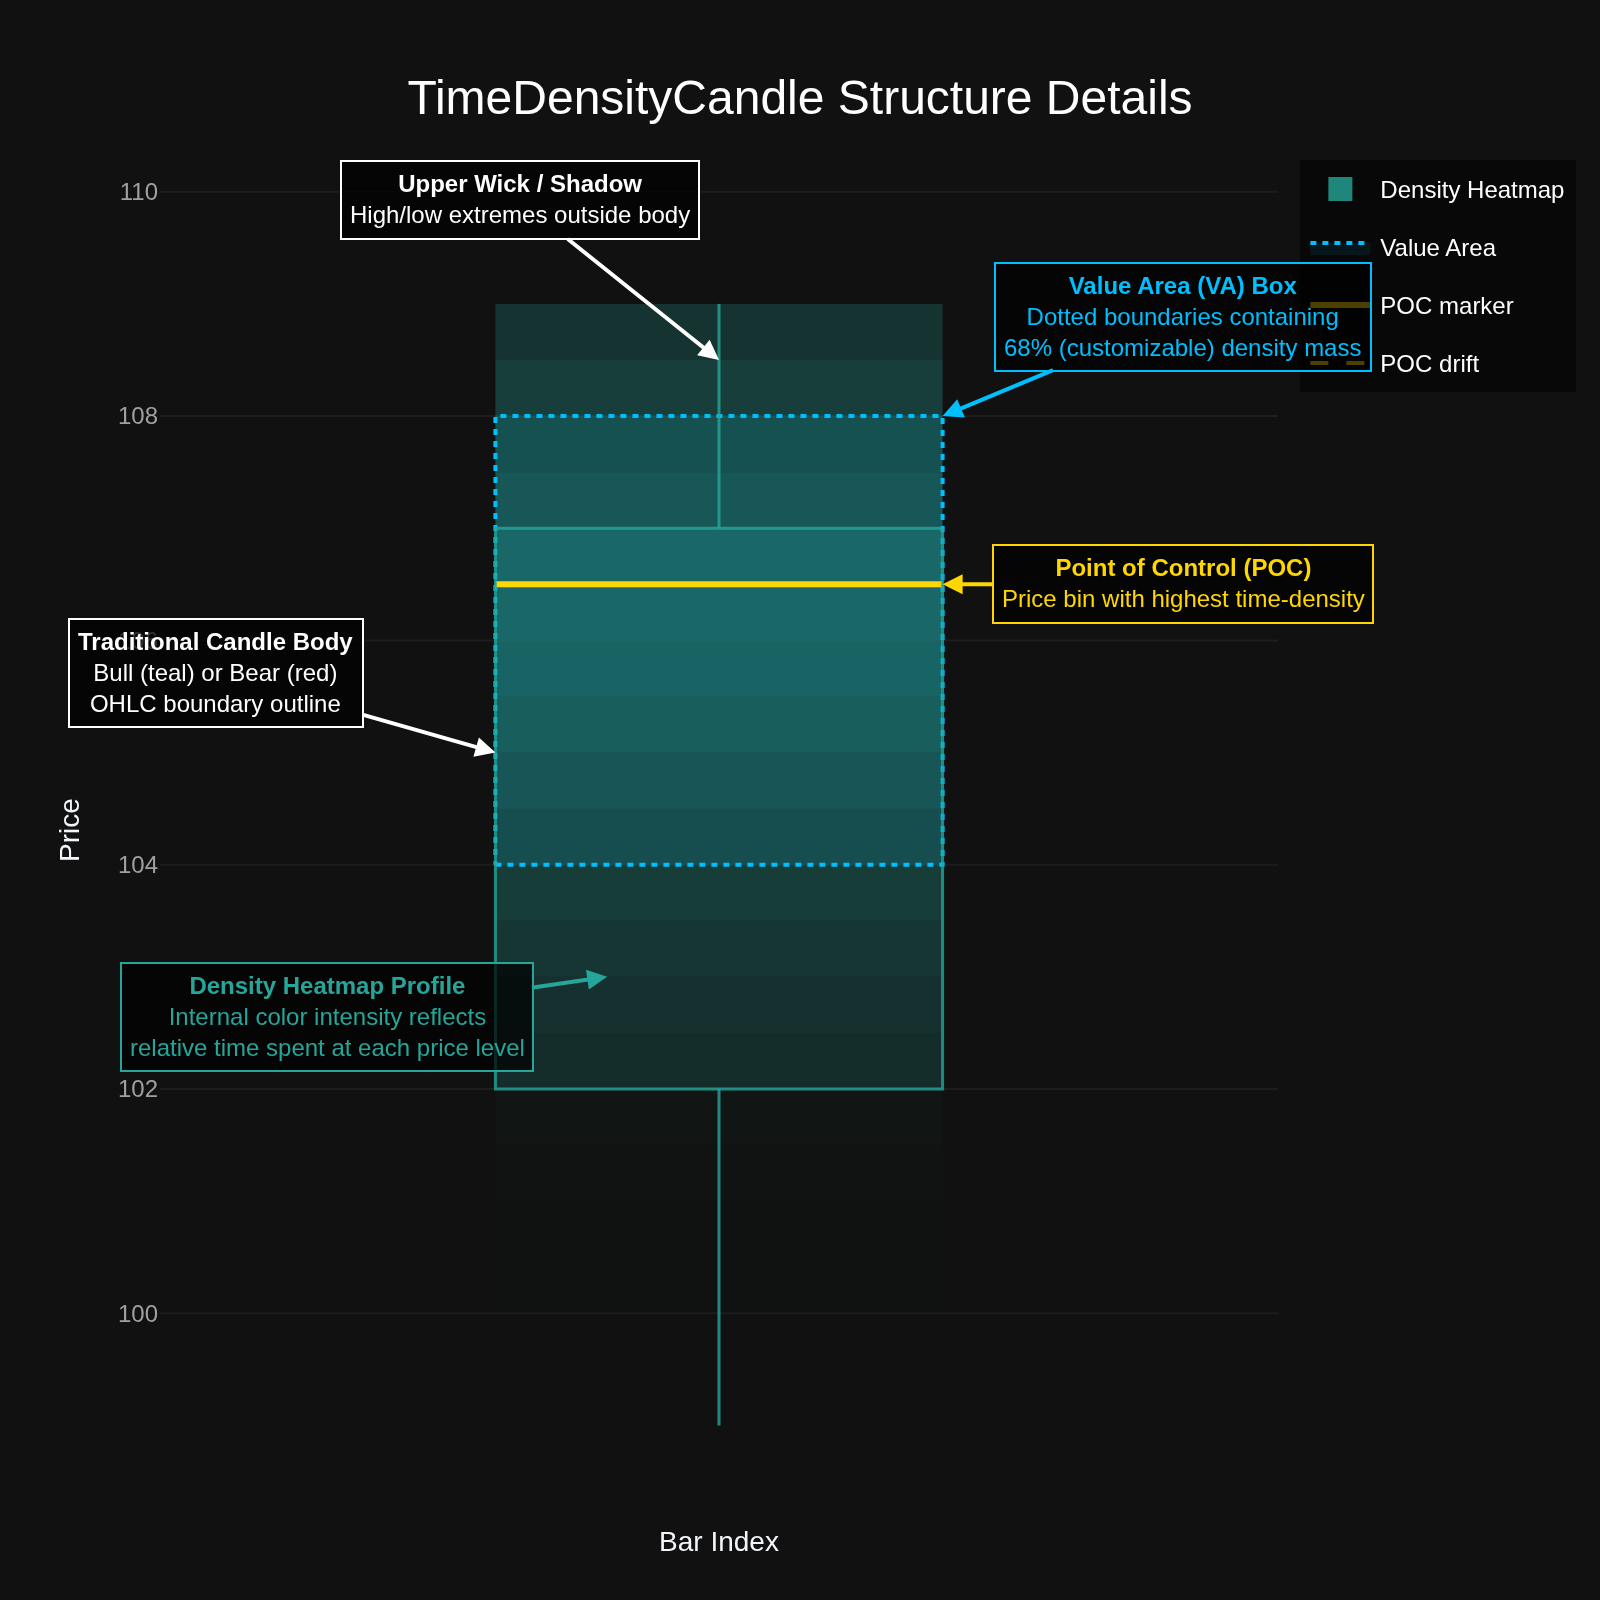
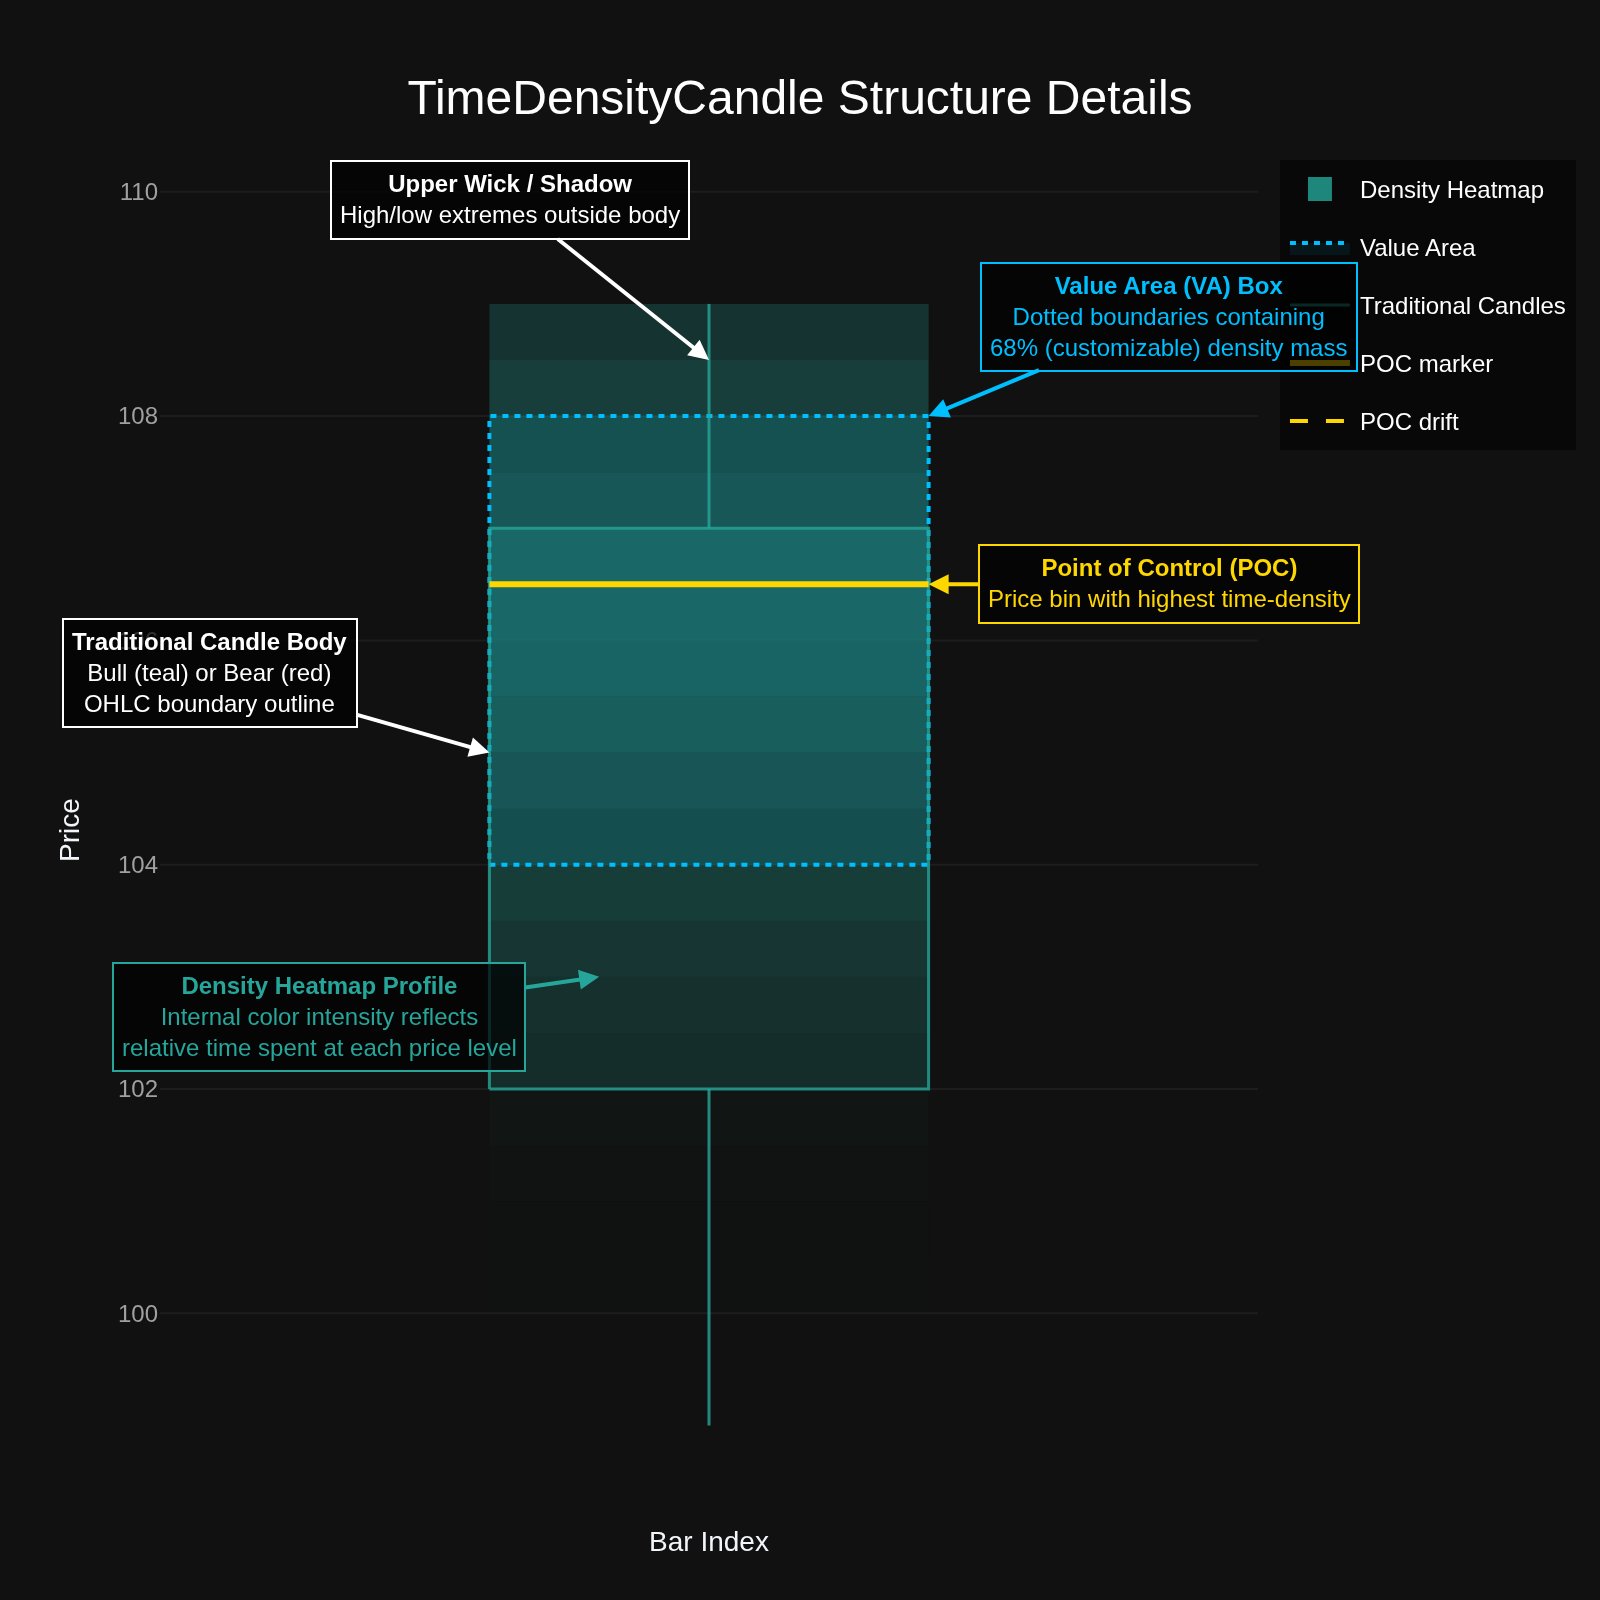
feat(rendering): add toggle to hide traditional candle bodies and wicks
- Introduce show_candles configuration to allow disabling traditional candle rendering.
- Refactor rendering logic to use Plotly Scatter traces instead of individual shapes for better performance and control.
- Update documentation and default configuration to reflect the new rendering option.

diff --git a/src/tdc/render.py b/src/tdc/render.py
@@ -20,6 +20,14 @@ def render_heatmap_candle(
     heatmap_base: list[float],
     heatmap_width: list[float],
     heatmap_colors: list[str],
+    bull_fill_x: list[float | None],
+    bull_fill_y: list[float | None],
+    bear_fill_x: list[float | None],
+    bear_fill_y: list[float | None],
+    bull_outline_x: list[float | None],
+    bull_outline_y: list[float | None],
+    bear_outline_x: list[float | None],
+    bear_outline_y: list[float | None],
 ) -> None:
     """
     Render a single TimeDensityCandle on the provided Plotly figure.
@@ -33,43 +41,74 @@ def render_heatmap_candle(
     body_min = min(open_p, close_p)
     body_max = max(open_p, close_p)
 
-    # 1. Traditional candle wicks/tails (only on the ends, not inside the body)
-    # We draw these with layer="above" so they render on top of the heatmap trace
-    if low_p < body_min:
-        fig.add_shape(
-            type="line",
-            x0=x_position,
-            y0=low_p,
-            x1=x_position,
-            y1=body_min,
-            line={"color": color_template.format(alpha=0.8), "width": 1.5},
-            layer="above",
-        )
-    if body_max < high_p:
-        fig.add_shape(
-            type="line",
-            x0=x_position,
-            y0=body_max,
-            x1=x_position,
-            y1=high_p,
-            line={"color": color_template.format(alpha=0.8), "width": 1.5},
-            layer="above",
-        )
+    # 1. Traditional candle wicks/tails and body outlines/fills (collected as coordinates)
+    if config.show_candles:
+        if close_p >= open_p:
+            # Bull candle
+            if low_p < body_min:
+                bull_outline_x.extend([x_position, x_position, None])
+                bull_outline_y.extend([low_p, body_min, None])
+            if body_max < high_p:
+                bull_outline_x.extend([x_position, x_position, None])
+                bull_outline_y.extend([body_max, high_p, None])
+            
+            # outline rectangle
+            bull_outline_x.extend([
+                x_position - half_width, x_position + half_width,
+                x_position + half_width, x_position - half_width,
+                x_position - half_width, None
+            ])
+            bull_outline_y.extend([
+                body_min, body_min,
+                body_max, body_max,
+                body_min, None
+            ])
 
-    # 2. Draw the base candle body fill (no border)
-    # We draw this with layer="below" so it renders underneath the heatmap trace
-    fig.add_shape(
-        type="rect",
-        x0=x_position - half_width,
-        y0=body_min,
-        x1=x_position + half_width,
-        y1=body_max,
-        fillcolor=color_template.format(alpha=0.15),
-        line={"width": 0},
-        layer="below",
-    )
+            # fill rectangle
+            bull_fill_x.extend([
+                x_position - half_width, x_position + half_width,
+                x_position + half_width, x_position - half_width,
+                x_position - half_width, None
+            ])
+            bull_fill_y.extend([
+                body_min, body_min,
+                body_max, body_max,
+                body_min, None
+            ])
+        else:
+            # Bear candle
+            if low_p < body_min:
+                bear_outline_x.extend([x_position, x_position, None])
+                bear_outline_y.extend([low_p, body_min, None])
+            if body_max < high_p:
+                bear_outline_x.extend([x_position, x_position, None])
+                bear_outline_y.extend([body_max, high_p, None])
+            
+            # outline rectangle
+            bear_outline_x.extend([
+                x_position - half_width, x_position + half_width,
+                x_position + half_width, x_position - half_width,
+                x_position - half_width, None
+            ])
+            bear_outline_y.extend([
+                body_min, body_min,
+                body_max, body_max,
+                body_min, None
+            ])
 
-    # 3. Collect the density profile (heatmap) blocks (split into lower tail, body, and upper tail)
+            # fill rectangle
+            bear_fill_x.extend([
+                x_position - half_width, x_position + half_width,
+                x_position + half_width, x_position - half_width,
+                x_position - half_width, None
+            ])
+            bear_fill_y.extend([
+                body_min, body_min,
+                body_max, body_max,
+                body_min, None
+            ])
+
+    # 2. Collect the density profile (heatmap) blocks (split into lower tail, body, and upper tail)
     for j, density_value in enumerate(density):
         bin_low = bins[j]
         bin_high = bins[j + 1]
@@ -108,18 +147,6 @@ def render_heatmap_candle(
             heatmap_base.append(float(draw_low))
             heatmap_width.append(float(w))
             heatmap_colors.append(color_template.format(alpha=alpha_j))
-
-    # 4. Draw the traditional candle body border outline (no fill) on top of density blocks
-    # We draw this with layer="above" so it renders on top of the heatmap trace
-    fig.add_shape(
-        type="rect",
-        x0=x_position - half_width,
-        y0=body_min,
-        x1=x_position + half_width,
-        y1=body_max,
-        line={"color": color_template.format(alpha=0.8), "width": 1.5},
-        layer="above",
-    )
 
 
 def _legend_position(position: str) -> dict[str, float | str]:
@@ -316,6 +343,15 @@ def build_heatmap_chart(
         heatmap_width: list[float] = []
         heatmap_colors: list[str] = []
 
+        bull_fill_x: list[float | None] = []
+        bull_fill_y: list[float | None] = []
+        bear_fill_x: list[float | None] = []
+        bear_fill_y: list[float | None] = []
+        bull_outline_x: list[float | None] = []
+        bull_outline_y: list[float | None] = []
+        bear_outline_x: list[float | None] = []
+        bear_outline_y: list[float | None] = []
+
         for i, row in feature_df.reset_index(drop=True).iterrows():
             ohlc = {
                 "open": float(row["open"]),
@@ -339,6 +375,14 @@ def build_heatmap_chart(
                 heatmap_base,
                 heatmap_width,
                 heatmap_colors,
+                bull_fill_x,
+                bull_fill_y,
+                bear_fill_x,
+                bear_fill_y,
+                bull_outline_x,
+                bull_outline_y,
+                bear_outline_x,
+                bear_outline_y,
             )
 
             visible_low, visible_high = _visible_density_range(ohlc, rendering_config)
@@ -374,6 +418,39 @@ def build_heatmap_chart(
                 if va_render_visible:
                     va_x.extend([x0, x1, x1, x0, x0, None])
                     va_y.extend([y0, y0, y1, y1, y0, None])
+
+        # Add the traditional candle body fills (so they render behind the heatmap)
+        if rendering_config.show_candles:
+            if bull_fill_x:
+                fig.add_trace(
+                    go.Scatter(
+                        x=bull_fill_x,
+                        y=bull_fill_y,
+                        mode="lines",
+                        fill="toself",
+                        fillcolor=rendering_config.color_scheme.bull.format(alpha=0.15),
+                        line={"width": 0},
+                        name="Traditional Candles",
+                        legendgroup="Traditional Candles",
+                        showlegend=False,
+                        hoverinfo="none",
+                    )
+                )
+            if bear_fill_x:
+                fig.add_trace(
+                    go.Scatter(
+                        x=bear_fill_x,
+                        y=bear_fill_y,
+                        mode="lines",
+                        fill="toself",
+                        fillcolor=rendering_config.color_scheme.bear.format(alpha=0.15),
+                        line={"width": 0},
+                        name="Traditional Candles",
+                        legendgroup="Traditional Candles",
+                        showlegend=False,
+                        hoverinfo="none",
+                    )
+                )
 
         # Add the density profile heatmap as a single toggleable Bar trace
         if heatmap_x:
@@ -428,6 +505,41 @@ def build_heatmap_chart(
                     hoverinfo="none",
                 )
             )
+
+        # Add the traditional candle wicks/outlines (so they render on top of the heatmap)
+        if rendering_config.show_candles:
+            if bull_outline_x:
+                fig.add_trace(
+                    go.Scatter(
+                        x=bull_outline_x,
+                        y=bull_outline_y,
+                        mode="lines",
+                        line={
+                            "color": rendering_config.color_scheme.bull.format(alpha=0.8),
+                            "width": 1.5,
+                        },
+                        name="Traditional Candles",
+                        legendgroup="Traditional Candles",
+                        showlegend=True,
+                        hoverinfo="none",
+                    )
+                )
+            if bear_outline_x:
+                fig.add_trace(
+                    go.Scatter(
+                        x=bear_outline_x,
+                        y=bear_outline_y,
+                        mode="lines",
+                        line={
+                            "color": rendering_config.color_scheme.bear.format(alpha=0.8),
+                            "width": 1.5,
+                        },
+                        name="Traditional Candles",
+                        legendgroup="Traditional Candles",
+                        showlegend=False,
+                        hoverinfo="none",
+                    )
+                )
 
         if features_config.enable_poc_marker and poc_x:
             fig.add_trace(

diff --git a/tests/test_render.py b/tests/test_render.py
@@ -109,3 +109,13 @@ def test_heatmap_extend_to_tails_rendering() -> None:
     # Check that both tail and body widths are present
     assert len(body_widths) > 0
     assert len(tail_widths) > 0
+
+
+def test_render_can_disable_traditional_candles() -> None:
+    fig_default = build_heatmap_chart(_feature_df(), RenderingConfig(show_candles=True), FeaturesConfig())
+    names_default = {trace.name for trace in fig_default.data}
+    assert "Traditional Candles" in names_default
+
+    fig_disabled = build_heatmap_chart(_feature_df(), RenderingConfig(show_candles=False), FeaturesConfig())
+    names_disabled = {trace.name for trace in fig_disabled.data}
+    assert "Traditional Candles" not in names_disabled

diff --git a/src/tdc/config.py b/src/tdc/config.py
@@ -121,6 +121,10 @@ class RenderingConfig(BaseModel):
         description="Extend the density heatmap over candle tails/wicks with a narrow width",
     )
     align_overlays_to_visible_heatmap: bool = Field(default=True)
+    show_candles: bool = Field(
+        default=True,
+        description="Render traditional candle bodies and wicks",
+    )
     show_session_gaps: bool = Field(default=True)
     break_poc_drift_on_gaps: bool = Field(default=True)
     color_scheme: ColorScheme = Field(default_factory=ColorScheme)

diff --git a/README.md b/README.md
@@ -128,6 +128,7 @@ TDC is configured via `tdc.yaml`. Below are the primary configuration parameters
 | `features.enable_indecision_flags` | `bool` | `true` | Plot markers indicating high-entropy/flat-profile bars. |
 | `rendering.full_heatmap` | `bool` | `true` | Draw density blocks across the entire candle high/low range rather than just the body. |
 | `rendering.extend_to_tails` | `bool` | `false` | Draw narrow density strips along wicks (used when `full_heatmap` is false). |
+| `rendering.show_candles` | `bool` | `true` | Render traditional candle bodies and wicks (set to `false` to hide candles). |
 | `rendering.show_session_gaps` | `bool` | `true` | Add visual vertical lines separating discontinuous trading days. |
 | `rendering.break_poc_drift_on_gaps` | `bool` | `true` | Disconnect the POC drift line across detected session gaps. |
 

diff --git a/docs/user_guide.md b/docs/user_guide.md
@@ -84,6 +84,7 @@ Required real-mode columns:
 | `rendering.full_heatmap` | bool | `false` | Shows heatmap over full high/low range. |
 | `rendering.extend_to_tails` | bool | `false` | Shows narrow density blocks on wicks. |
 | `rendering.align_overlays_to_visible_heatmap` | bool | `true` | Hides overlays outside rendered density. |
+| `rendering.show_candles` | bool | `true` | Renders traditional candle bodies and wicks. |
 | `rendering.show_session_gaps` | bool | `true` | Shows detected time-gap markers. |
 | `rendering.break_poc_drift_on_gaps` | bool | `true` | Breaks drift through gaps/ambiguous POCs. |
 | `rendering.legend.enabled` | bool | `true` | Shows the chart legend. |